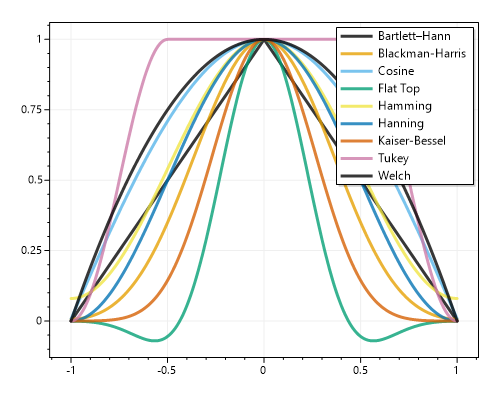
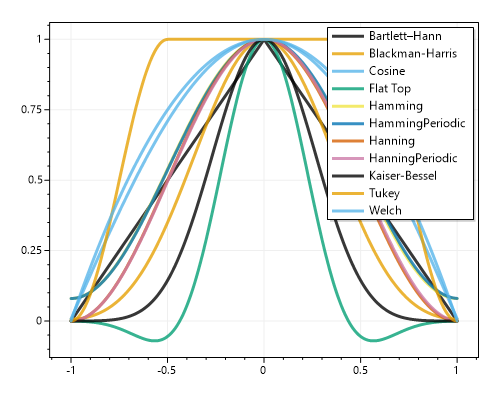
IWindow: IsSymmetric

diff --git a/src/FftSharp.Tests/Window.cs b/src/FftSharp.Tests/Window.cs
@@ -86,10 +86,19 @@ namespace FftSharp.Tests
         [Test]
         public void Test_EvenLength_CenterTwoAreSame()
         {
-            foreach (IWindow window in FftSharp.Window.GetSymmetricWindows())
+            foreach (IWindow window in FftSharp.Window.GetWindows())
             {
                 double[] values = window.Create(12);
-                Assert.AreEqual(values[5], values[6], 1e-5, window.Name);
+                if (window.IsSymmetric)
+                {
+                    Assert.AreEqual(values[5], values[6], 1e-5, window.Name);
+                    Assert.AreEqual(values.First(), values.Last(), 1e-5, window.Name);
+                }
+                else
+                {
+                    Assert.AreNotEqual(values[5], values[6], window.Name);
+                    Assert.AreNotEqual(values.First(), values.Last(), window.Name);
+                }
             }
         }
 

diff --git a/src/FftSharp/Window.cs b/src/FftSharp/Window.cs
@@ -10,6 +10,8 @@ namespace FftSharp
 
         public abstract string Description { get; }
 
+        public abstract bool IsSymmetric { get; }
+
         public override string ToString() => Name;
 
         public abstract double[] Create(int size, bool normalize = false);
@@ -60,13 +62,6 @@ namespace FftSharp
                 .Where(x => !x.IsAbstract)
                 .Where(x => x.GetInterfaces().Contains(typeof(IWindow)))
                 .Select(x => (IWindow)Activator.CreateInstance(x))
-                .ToArray();
-        }
-
-        public static IWindow[] GetSymmetricWindows()
-        {
-            return GetWindows()
-                .Where(x => !x.Name.Contains("Periodic"))
                 .ToArray();
         }
 

diff --git a/src/FftSharp/Windows/Cosine.cs b/src/FftSharp/Windows/Cosine.cs
@@ -9,6 +9,8 @@ namespace FftSharp.Windows
         public override string Description =>
             "This window is simply a cosine function. It reaches zero on both sides and is similar to " +
             "Blackman, Hamming, Hanning, and flat top windows, but probably should not be used in practice.";
+        
+        public override bool IsSymmetric => true;
 
         public override double[] Create(int size, bool normalize = false)
         {

diff --git a/src/FftSharp/Windows/FlatTop.cs b/src/FftSharp/Windows/FlatTop.cs
@@ -14,6 +14,8 @@ namespace FftSharp.Windows
             "The flat top window crosses the zero line causing a broader peak in the frequency domain, " +
             "which is closer to the true amplitude of the signal than with other windows";
 
+        public override bool IsSymmetric => true;
+
         public readonly double A0 = 0.21557895;
         public readonly double A1 = 0.41663158;
         public readonly double A2 = 0.277263158;

diff --git a/src/FftSharp/Windows/Rectangular.cs b/src/FftSharp/Windows/Rectangular.cs
@@ -8,6 +8,8 @@
             "equivalent to replacing all but N values of a data sequence by zeros, making it appear as though " +
             "the waveform suddenly turns on and off. This window preserves transients at the start and end of the signal.";
 
+        public override bool IsSymmetric => true;
+
         public override double[] Create(int size, bool normalize = false)
         {
             double[] window = new double[size];

diff --git a/src/FftSharp/Windows/HanningPeriodic.cs b/src/FftSharp/Windows/HanningPeriodic.cs
@@ -11,6 +11,8 @@ namespace FftSharp.Windows
             "If you do not know the nature of the signal but you want to apply a smoothing window, start with the Hann window." +
             "A periodic window, for use in spectral analysis.";
 
+        public override bool IsSymmetric => false;
+
         public override double[] Create(int size, bool normalize = false)
         {
             double[] window = new double[size];

diff --git a/src/FftSharp/Windows/HammingPeriodic.cs b/src/FftSharp/Windows/HammingPeriodic.cs
@@ -11,6 +11,8 @@ namespace FftSharp.Windows
             "It may be a good choice for low-quality (8-bit) auto where side lobes lie beyond the quantization noise floor." +
             "A periodic window, for use in spectral analysis.";
 
+        public override bool IsSymmetric => false;
+
         public override double[] Create(int size, bool normalize = false)
         {
             double[] window = new double[size];

diff --git a/src/FftSharp/Windows/Hanning.cs b/src/FftSharp/Windows/Hanning.cs
@@ -11,6 +11,8 @@ namespace FftSharp.Windows
             "If you do not know the nature of the signal but you want to apply a smoothing window, start with the Hann window." +
             "A symmetric window, for use in filter design.";
 
+        public override bool IsSymmetric => true;
+
         public override double[] Create(int size, bool normalize = false)
         {
             double[] window = new double[size];

diff --git a/src/FftSharp/Windows/Hamming.cs b/src/FftSharp/Windows/Hamming.cs
@@ -11,6 +11,8 @@ namespace FftSharp.Windows
             "It may be a good choice for low-quality (8-bit) auto where side lobes lie beyond the quantization noise floor." +
             "A symmetric window, for use in filter design.";
 
+        public override bool IsSymmetric => true;
+
         public override double[] Create(int size, bool normalize = false)
         {
             double[] window = new double[size];

diff --git a/src/FftSharp/Windows/Bartlett.cs b/src/FftSharp/Windows/Bartlett.cs
@@ -9,6 +9,8 @@ namespace FftSharp.Windows
             "The Bartlett–Hann window is triangular in shape (a 2nd order B-spline) which is effectively the " +
             "convolution of two half-sized rectangular windows.";
 
+        public override bool IsSymmetric => true;
+
         public override double[] Create(int size, bool normalize = false)
         {
             double[] window = new double[size];

diff --git a/src/FftSharp/Windows/Welch.cs b/src/FftSharp/Windows/Welch.cs
@@ -12,6 +12,8 @@ namespace FftSharp.Windows
             "Its frequency response is better than that of the Bartlett windowed cosc function below pi, " +
             "but it shows again a rather distinctive bump above.";
 
+        public override bool IsSymmetric => true;
+
         public override double[] Create(int size, bool normalize = false)
         {
             double[] window = new double[size];

diff --git a/src/FftSharp/Windows/Kaiser.cs b/src/FftSharp/Windows/Kaiser.cs
@@ -12,6 +12,8 @@ namespace FftSharp.Windows
             "but for the same main lobe width, the near side lobes tend to be higher, but the further out side lobes are lower. " +
             "Choosing this window often reveals signals close to the noise floor";
 
+        public override bool IsSymmetric => true;
+
         public Kaiser()
         {
             Beta = 15;
